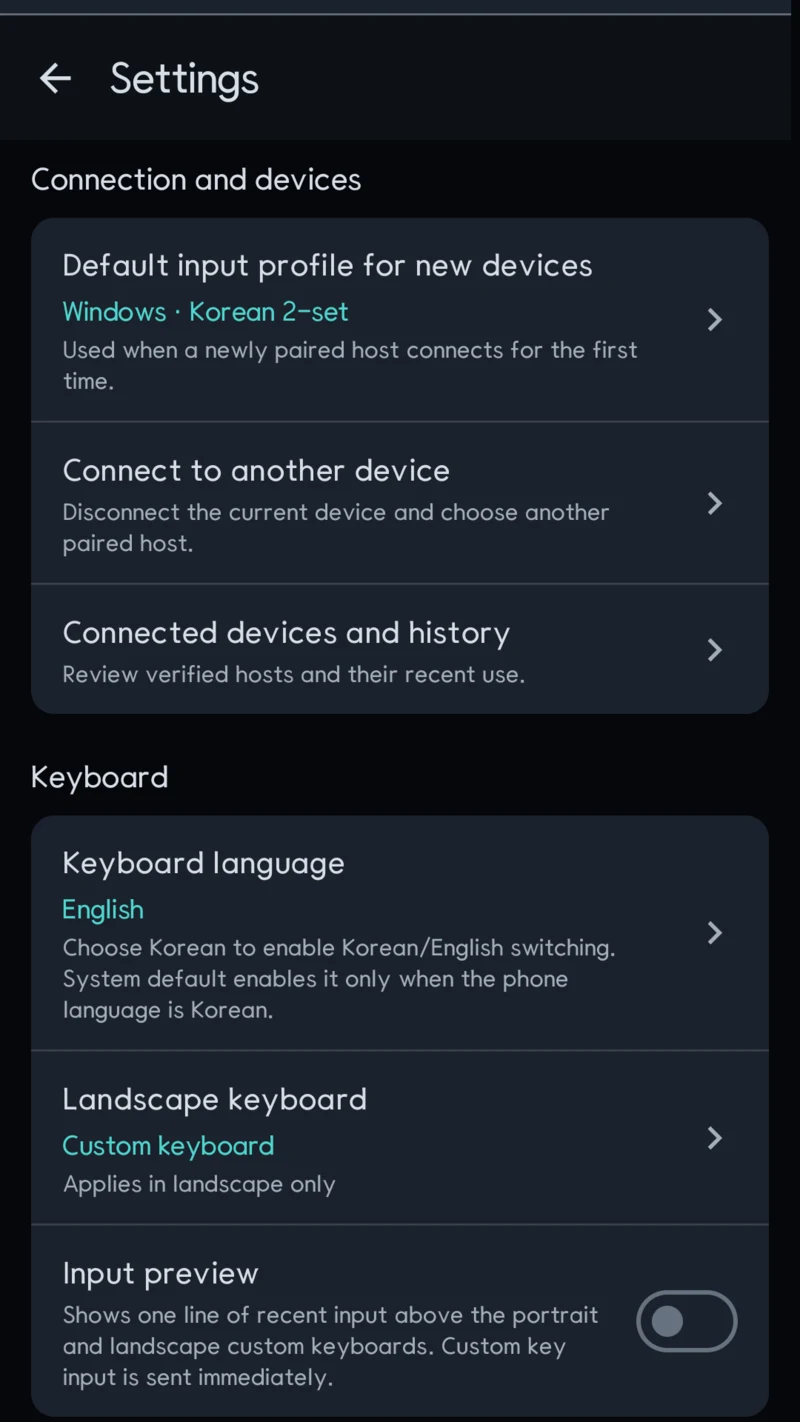
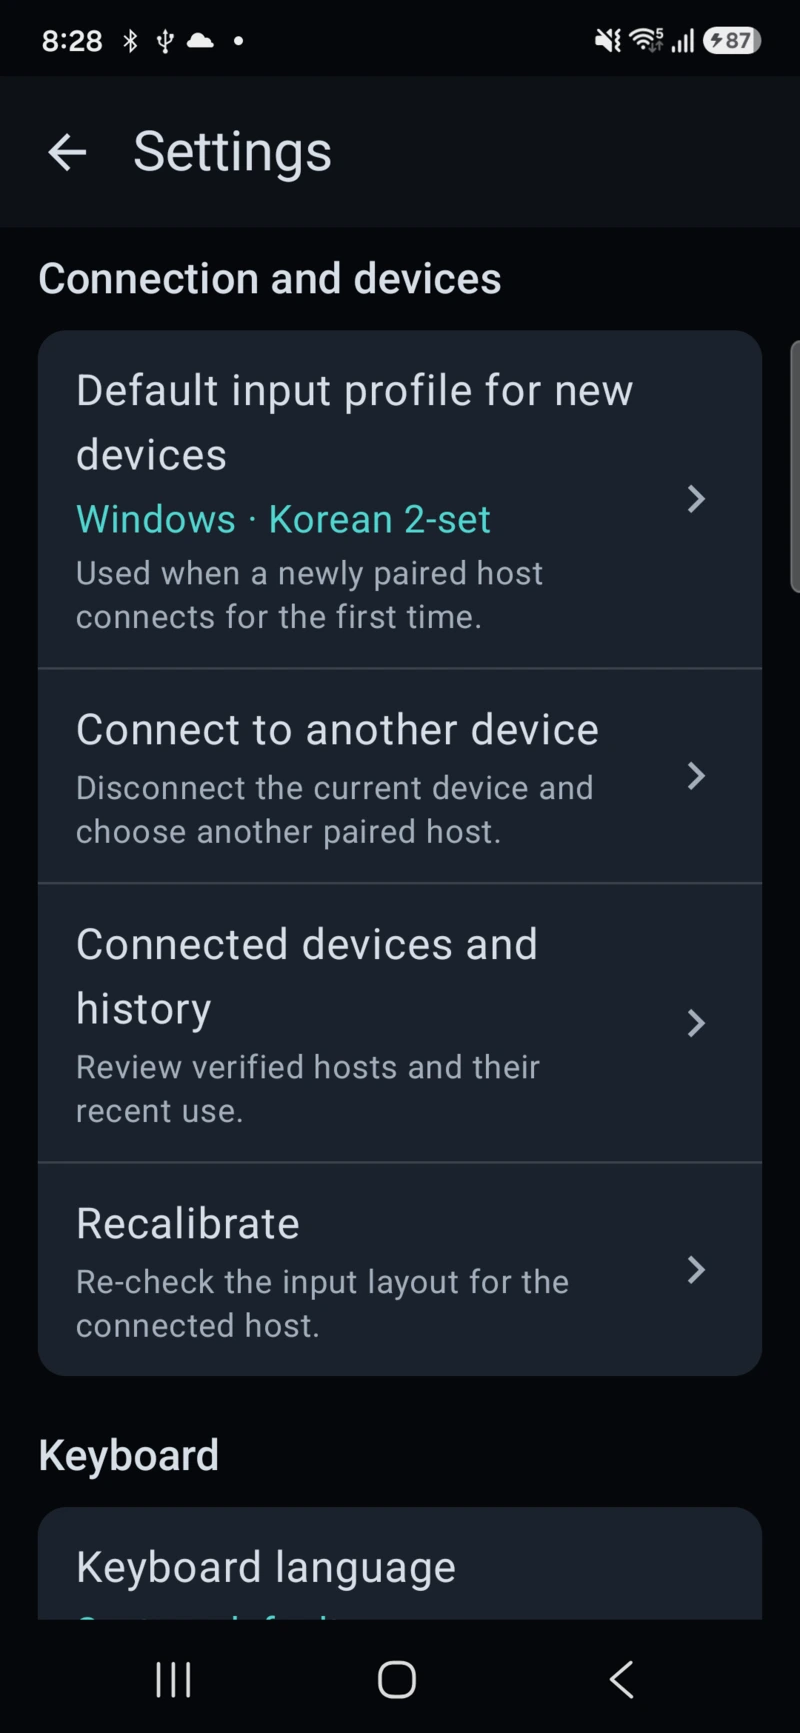
bt-keyboard 제품 스크린샷을 실기기 발행 캡처로 교체
- en-US·ko-KR 4장씩을 Play 스토어에 올린 SM-S931N 캡처(음성 키 포함)로 교체
- 규격을 다른 앱과 맞춤: 세로 800x1733, 가로 1200x554, webp q92
- 제품 페이지·앱 허브(en·ko)의 img width/height 를 새 비율로 수정

diff --git a/ko/apps/index.html b/ko/apps/index.html
@@ -89,7 +89,7 @@
          전용 크기가 아니다. 만드는 법과 블로그 글의 1080px PNG 를 쓰지 않는 이유는 README
          "고칠 때" 가 정본이다. -->
     <div class="cards shots">
-      <article class="card"><div class="icon" aria-hidden="true">⌨</div><h3><a href="/ko/apps/bt-keyboard/"><span class="dotori-ko"><span>도</span><span>토</span><span>리</span></span> 한글 키보드</a></h3><p class="pkg">com.droidactor.bt_keyboard</p><p class="desc">폰을 PC·TV·태블릿용 Bluetooth HID 키보드와 트랙패드로 사용합니다.</p><div class="card-shots"><a href="https://play.google.com/store/apps/details?id=com.droidactor.bt_keyboard&amp;hl=ko" aria-label="세로 키보드와 트랙패드 화면 — Google Play에서 앱 받기"><img src="/assets/shots/bt-keyboard/ko-KR/01-portrait-keyboard-trackpad.webp" width="800" height="1422" loading="lazy" decoding="async" alt="세로 키보드와 트랙패드 화면"></a><a href="https://play.google.com/store/apps/details?id=com.droidactor.bt_keyboard&amp;hl=ko" aria-label="상대 기기 profile과 키보드 설정 — Google Play에서 앱 받기"><img src="/assets/shots/bt-keyboard/ko-KR/04-settings.webp" width="800" height="1422" loading="lazy" decoding="async" alt="상대 기기 profile과 키보드 설정"></a></div><div class="foot"><a href="/ko/apps/bt-keyboard/">제품 페이지</a><a href="/ko/manual/bt-keyboard/">사용 설명서</a><a href="/ko/tech-notes/bt-keyboard/">기술 노트</a></div></article>
+      <article class="card"><div class="icon" aria-hidden="true">⌨</div><h3><a href="/ko/apps/bt-keyboard/"><span class="dotori-ko"><span>도</span><span>토</span><span>리</span></span> 한글 키보드</a></h3><p class="pkg">com.droidactor.bt_keyboard</p><p class="desc">폰을 PC·TV·태블릿용 Bluetooth HID 키보드와 트랙패드로 사용합니다.</p><div class="card-shots"><a href="https://play.google.com/store/apps/details?id=com.droidactor.bt_keyboard&amp;hl=ko" aria-label="세로 키보드와 트랙패드 화면 — Google Play에서 앱 받기"><img src="/assets/shots/bt-keyboard/ko-KR/01-portrait-keyboard-trackpad.webp" width="800" height="1733" loading="lazy" decoding="async" alt="세로 키보드와 트랙패드 화면"></a><a href="https://play.google.com/store/apps/details?id=com.droidactor.bt_keyboard&amp;hl=ko" aria-label="상대 기기 profile과 키보드 설정 — Google Play에서 앱 받기"><img src="/assets/shots/bt-keyboard/ko-KR/04-settings.webp" width="800" height="1733" loading="lazy" decoding="async" alt="상대 기기 profile과 키보드 설정"></a></div><div class="foot"><a href="/ko/apps/bt-keyboard/">제품 페이지</a><a href="/ko/manual/bt-keyboard/">사용 설명서</a><a href="/ko/tech-notes/bt-keyboard/">기술 노트</a></div></article>
       <article class="card"><div class="icon" aria-hidden="true">📽</div><h3><a href="/ko/apps/bt-ppt/"><span class="dotori-ko"><span>도</span><span>토</span><span>리</span></span> PPT 리모컨</a></h3><p class="pkg">com.droidactor.bt_ppt</p><p class="desc">Bluetooth HID로 PowerPoint 슬라이드쇼의 핵심 동작 5개를 제어합니다.</p><div class="card-shots"><a href="https://play.google.com/store/apps/details?id=com.droidactor.bt_ppt&amp;hl=ko" aria-label="발표 리모컨 조작 화면 — Google Play에서 앱 받기"><img src="/assets/shots/bt-ppt/ko-KR/01-presenter-control.webp" width="800" height="1422" loading="lazy" decoding="async" alt="발표 리모컨 조작 화면"></a><a href="https://play.google.com/store/apps/details?id=com.droidactor.bt_ppt&amp;hl=ko" aria-label="발표 리모컨 연결 설정 — Google Play에서 앱 받기"><img src="/assets/shots/bt-ppt/ko-KR/03-settings.webp" width="800" height="1422" loading="lazy" decoding="async" alt="발표 리모컨 연결 설정"></a></div><div class="foot"><a href="/ko/apps/bt-ppt/">제품 페이지</a><a href="/ko/manual/bt-ppt/">사용 설명서</a><a href="/ko/tech-notes/bt-ppt/">기술 노트</a></div></article>
       <article class="card"><div class="icon" aria-hidden="true">🖱</div><h3><a href="/ko/apps/bt-mouse/"><span class="dotori-ko"><span>도</span><span>토</span><span>리</span></span> 블루투스 마우스</a></h3><p class="pkg">com.droidactor.bt_mouse2</p><p class="desc">폰을 클릭과 양방향 스크롤을 지원하는 Bluetooth HID 마우스로 사용합니다.</p><div class="card-shots"><a href="https://play.google.com/store/apps/details?id=com.droidactor.bt_mouse2&amp;hl=ko" aria-label="트랙패드와 버튼이 있는 마우스 조작 화면 — Google Play에서 앱 받기"><img src="/assets/shots/bt-mouse/ko-KR/06-mouse-control.webp" width="800" height="1733" loading="lazy" decoding="async" alt="트랙패드와 버튼이 있는 마우스 조작 화면"></a><a href="https://play.google.com/store/apps/details?id=com.droidactor.bt_mouse2&amp;hl=ko" aria-label="Bluetooth 마우스 포인터 설정 — Google Play에서 앱 받기"><img src="/assets/shots/bt-mouse/ko-KR/02-settings.webp" width="800" height="1733" loading="lazy" decoding="async" alt="Bluetooth 마우스 포인터 설정"></a></div><div class="foot"><a href="/ko/apps/bt-mouse/">제품 페이지</a><a href="/ko/manual/bt-mouse/">사용 설명서</a><a href="/ko/tech-notes/bt-mouse/">기술 노트</a></div></article>
       <article class="card"><div class="icon" aria-hidden="true">🔢</div><h3><a href="/ko/apps/numpad/"><span class="dotori-ko"><span>도</span><span>토</span><span>리</span></span> 블루투스 넘패드</a></h3><p class="pkg">com.droidactor.bt_numpad</p><p class="desc">텐키리스 키보드가 덜어낸 17키를 블루투스 HID 로 보냅니다.</p><div class="foot"><a href="/ko/apps/numpad/">제품 페이지</a></div></article>

diff --git a/apps/index.html b/apps/index.html
@@ -89,7 +89,7 @@
          rather than sized for this page alone — see README "고칠 때" for how they are made and
          why the 1080px PNGs the blog posts show are not used here. -->
     <div class="cards shots">
-      <article class="card"><div class="icon" aria-hidden="true">⌨</div><h3><a href="/apps/bt-keyboard/"><span class="dotori">Dotori</span> Bluetooth Keyboard</a></h3><p class="pkg">com.droidactor.bt_keyboard</p><p class="desc">Use a phone as a Bluetooth HID keyboard and trackpad for a PC, TV, or tablet.</p><div class="card-shots"><a href="https://play.google.com/store/apps/details?id=com.droidactor.bt_keyboard&amp;hl=en" aria-label="Portrait keyboard and trackpad screen — get the app on Google Play"><img src="/assets/shots/bt-keyboard/en-US/01-portrait-keyboard-trackpad.webp" width="800" height="1422" loading="lazy" decoding="async" alt="Portrait keyboard and trackpad screen"></a><a href="https://play.google.com/store/apps/details?id=com.droidactor.bt_keyboard&amp;hl=en" aria-label="Host profile and keyboard settings — get the app on Google Play"><img src="/assets/shots/bt-keyboard/en-US/04-settings.webp" width="800" height="1422" loading="lazy" decoding="async" alt="Host profile and keyboard settings"></a></div><div class="foot"><a href="/apps/bt-keyboard/">Product page</a><a href="/manual/bt-keyboard/">User manual</a><a href="/tech-notes/bt-keyboard/">Tech notes</a></div></article>
+      <article class="card"><div class="icon" aria-hidden="true">⌨</div><h3><a href="/apps/bt-keyboard/"><span class="dotori">Dotori</span> Bluetooth Keyboard</a></h3><p class="pkg">com.droidactor.bt_keyboard</p><p class="desc">Use a phone as a Bluetooth HID keyboard and trackpad for a PC, TV, or tablet.</p><div class="card-shots"><a href="https://play.google.com/store/apps/details?id=com.droidactor.bt_keyboard&amp;hl=en" aria-label="Portrait keyboard and trackpad screen — get the app on Google Play"><img src="/assets/shots/bt-keyboard/en-US/01-portrait-keyboard-trackpad.webp" width="800" height="1733" loading="lazy" decoding="async" alt="Portrait keyboard and trackpad screen"></a><a href="https://play.google.com/store/apps/details?id=com.droidactor.bt_keyboard&amp;hl=en" aria-label="Host profile and keyboard settings — get the app on Google Play"><img src="/assets/shots/bt-keyboard/en-US/04-settings.webp" width="800" height="1733" loading="lazy" decoding="async" alt="Host profile and keyboard settings"></a></div><div class="foot"><a href="/apps/bt-keyboard/">Product page</a><a href="/manual/bt-keyboard/">User manual</a><a href="/tech-notes/bt-keyboard/">Tech notes</a></div></article>
       <article class="card"><div class="icon" aria-hidden="true">📽</div><h3><a href="/apps/bt-ppt/"><span class="dotori">Dotori</span> Bluetooth PPT Remote</a></h3><p class="pkg">com.droidactor.bt_ppt</p><p class="desc">Control the five essential PowerPoint slideshow actions over Bluetooth HID.</p><div class="card-shots"><a href="https://play.google.com/store/apps/details?id=com.droidactor.bt_ppt&amp;hl=en" aria-label="Presentation remote control screen — get the app on Google Play"><img src="/assets/shots/bt-ppt/en-US/01-presenter-control.webp" width="800" height="1422" loading="lazy" decoding="async" alt="Presentation remote control screen"></a><a href="https://play.google.com/store/apps/details?id=com.droidactor.bt_ppt&amp;hl=en" aria-label="Presentation remote connection settings — get the app on Google Play"><img src="/assets/shots/bt-ppt/en-US/03-settings.webp" width="800" height="1422" loading="lazy" decoding="async" alt="Presentation remote connection settings"></a></div><div class="foot"><a href="/apps/bt-ppt/">Product page</a><a href="/manual/bt-ppt/">User manual</a><a href="/tech-notes/bt-ppt/">Tech notes</a></div></article>
       <article class="card"><div class="icon" aria-hidden="true">🖱</div><h3><a href="/apps/bt-mouse/"><span class="dotori">Dotori</span> Bluetooth Mouse</a></h3><p class="pkg">com.droidactor.bt_mouse2</p><p class="desc">Use a phone as a Bluetooth HID mouse with clicks and two-axis scrolling.</p><div class="card-shots"><a href="https://play.google.com/store/apps/details?id=com.droidactor.bt_mouse2&amp;hl=en" aria-label="Mouse control screen with trackpad and buttons — get the app on Google Play"><img src="/assets/shots/bt-mouse/en-US/06-mouse-control.webp" width="800" height="1733" loading="lazy" decoding="async" alt="Mouse control screen with trackpad and buttons"></a><a href="https://play.google.com/store/apps/details?id=com.droidactor.bt_mouse2&amp;hl=en" aria-label="Bluetooth mouse pointer settings — get the app on Google Play"><img src="/assets/shots/bt-mouse/en-US/02-settings.webp" width="800" height="1733" loading="lazy" decoding="async" alt="Bluetooth mouse pointer settings"></a></div><div class="foot"><a href="/apps/bt-mouse/">Product page</a><a href="/manual/bt-mouse/">User manual</a><a href="/tech-notes/bt-mouse/">Tech notes</a></div></article>
       <article class="card"><div class="icon" aria-hidden="true">🔢</div><h3><a href="/apps/numpad/"><span class="dotori">Dotori</span> Bluetooth Numpad</a></h3><p class="pkg">com.droidactor.bt_numpad</p><p class="desc">Send the 17 keys a tenkeyless keyboard leaves out over Bluetooth HID.</p><div class="foot"><a href="/apps/numpad/">Product page</a></div></article>

diff --git a/ko/apps/bt-keyboard/index.html b/ko/apps/bt-keyboard/index.html
@@ -114,10 +114,10 @@
   <section>
     <h2>화면</h2>
     <div class="screenshot-grid">
-      <figure><img src="/assets/shots/bt-keyboard/ko-KR/01-portrait-keyboard-trackpad.webp" width="800" height="1422" loading="lazy" decoding="async" alt="세로 키보드와 트랙패드 화면"><figcaption>키보드 위에 트랙패드와 가로·세로 스크롤 영역을 함께 둔 세로 화면.</figcaption></figure>
-      <figure><img src="/assets/shots/bt-keyboard/ko-KR/04-settings.webp" width="800" height="1422" loading="lazy" decoding="async" alt="상대 기기 profile과 키보드 설정"><figcaption>입력 profile과 진단 기능으로 배열에 대한 가정을 드러냅니다.</figcaption></figure>
-      <figure><img src="/assets/shots/bt-keyboard/ko-KR/02-landscape-keyboard.webp" width="1200" height="675" loading="lazy" decoding="async" alt="가로 Bluetooth 키보드 화면"><figcaption>키 전체를 넓게 쓰는 가로 키보드 화면.</figcaption></figure>
-      <figure><img src="/assets/shots/bt-keyboard/ko-KR/03-landscape-trackpad.webp" width="1200" height="675" loading="lazy" decoding="async" alt="가로 Bluetooth 트랙패드 화면"><figcaption>포인터와 휠 입력에 집중한 별도 가로 트랙패드.</figcaption></figure>
+      <figure><img src="/assets/shots/bt-keyboard/ko-KR/01-portrait-keyboard-trackpad.webp" width="800" height="1733" loading="lazy" decoding="async" alt="세로 키보드와 트랙패드 화면"><figcaption>키보드 위에 트랙패드와 가로·세로 스크롤 영역을 함께 둔 세로 화면.</figcaption></figure>
+      <figure><img src="/assets/shots/bt-keyboard/ko-KR/04-settings.webp" width="800" height="1733" loading="lazy" decoding="async" alt="상대 기기 profile과 키보드 설정"><figcaption>입력 profile과 진단 기능으로 배열에 대한 가정을 드러냅니다.</figcaption></figure>
+      <figure><img src="/assets/shots/bt-keyboard/ko-KR/02-landscape-keyboard.webp" width="1200" height="554" loading="lazy" decoding="async" alt="가로 Bluetooth 키보드 화면"><figcaption>키 전체를 넓게 쓰는 가로 키보드 화면.</figcaption></figure>
+      <figure><img src="/assets/shots/bt-keyboard/ko-KR/03-landscape-trackpad.webp" width="1200" height="554" loading="lazy" decoding="async" alt="가로 Bluetooth 트랙패드 화면"><figcaption>포인터와 휠 입력에 집중한 별도 가로 트랙패드.</figcaption></figure>
     </div>
   </section>
 

diff --git a/apps/bt-keyboard/index.html b/apps/bt-keyboard/index.html
@@ -116,10 +116,10 @@
   <section>
     <h2>Screens</h2>
     <div class="screenshot-grid">
-      <figure><img src="/assets/shots/bt-keyboard/en-US/01-portrait-keyboard-trackpad.webp" width="800" height="1422" loading="lazy" decoding="async" alt="Portrait keyboard and trackpad screen"><figcaption>Portrait keyboard with trackpad, horizontal scroll, and vertical scroll.</figcaption></figure>
-      <figure><img src="/assets/shots/bt-keyboard/en-US/04-settings.webp" width="800" height="1422" loading="lazy" decoding="async" alt="Host profile and keyboard settings"><figcaption>Host profiles and diagnostics make layout assumptions explicit.</figcaption></figure>
-      <figure><img src="/assets/shots/bt-keyboard/en-US/02-landscape-keyboard.webp" width="1200" height="675" loading="lazy" decoding="async" alt="Landscape Bluetooth keyboard screen"><figcaption>The landscape keyboard keeps the full key surface available.</figcaption></figure>
-      <figure><img src="/assets/shots/bt-keyboard/en-US/03-landscape-trackpad.webp" width="1200" height="675" loading="lazy" decoding="async" alt="Landscape Bluetooth trackpad screen"><figcaption>A separate landscape trackpad for pointer and wheel input.</figcaption></figure>
+      <figure><img src="/assets/shots/bt-keyboard/en-US/01-portrait-keyboard-trackpad.webp" width="800" height="1733" loading="lazy" decoding="async" alt="Portrait keyboard and trackpad screen"><figcaption>Portrait keyboard with trackpad, horizontal scroll, and vertical scroll.</figcaption></figure>
+      <figure><img src="/assets/shots/bt-keyboard/en-US/04-settings.webp" width="800" height="1733" loading="lazy" decoding="async" alt="Host profile and keyboard settings"><figcaption>Host profiles and diagnostics make layout assumptions explicit.</figcaption></figure>
+      <figure><img src="/assets/shots/bt-keyboard/en-US/02-landscape-keyboard.webp" width="1200" height="554" loading="lazy" decoding="async" alt="Landscape Bluetooth keyboard screen"><figcaption>The landscape keyboard keeps the full key surface available.</figcaption></figure>
+      <figure><img src="/assets/shots/bt-keyboard/en-US/03-landscape-trackpad.webp" width="1200" height="554" loading="lazy" decoding="async" alt="Landscape Bluetooth trackpad screen"><figcaption>A separate landscape trackpad for pointer and wheel input.</figcaption></figure>
     </div>
   </section>
 
